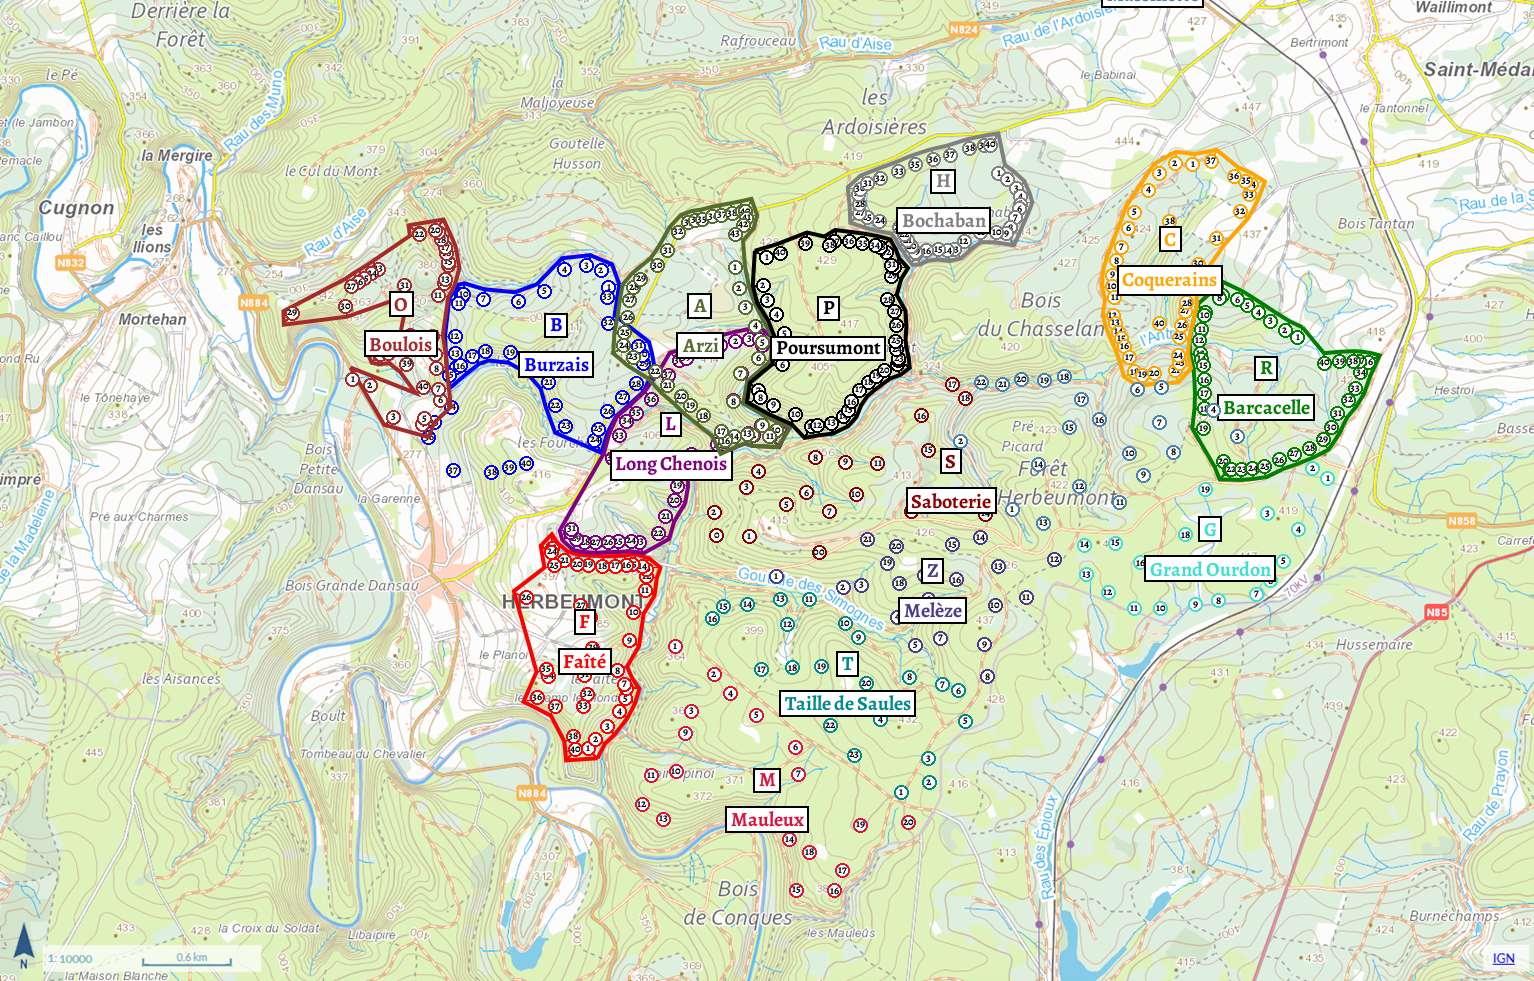
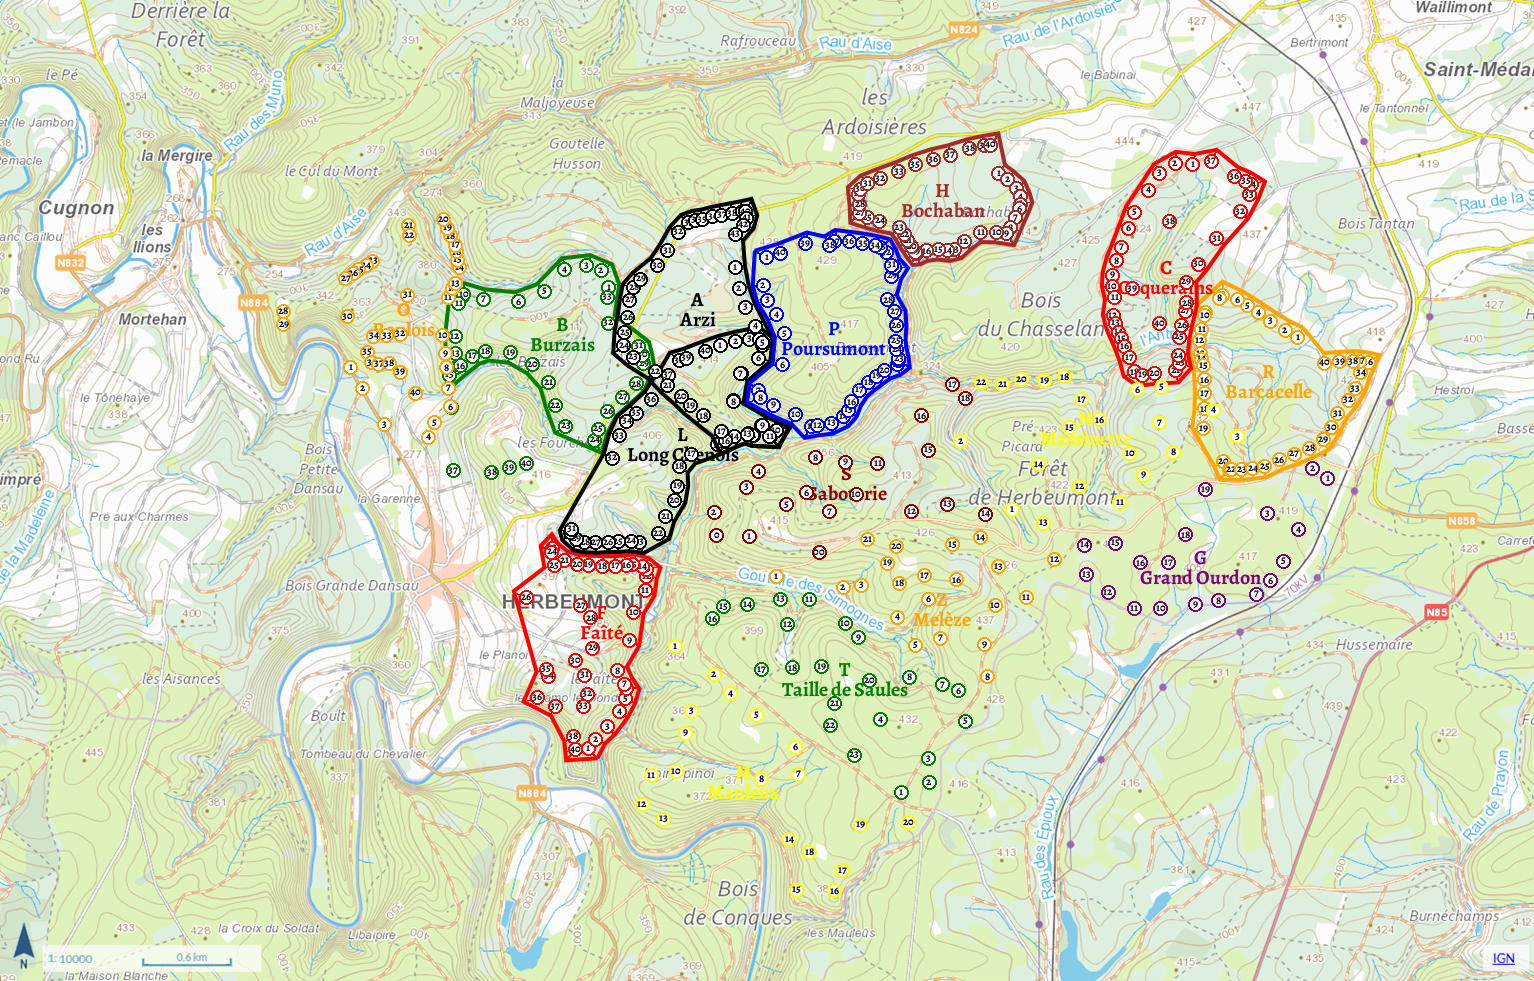
removed battue name box, added offest and changed centroid

diff --git a/src/map.py b/src/map.py
@@ -6,11 +6,11 @@ from battue import Battue
 from generic_point import load_generic_points
 from util import LambertPoint, get_lines_from_vertices, Line, point_within_bounds, flatten_tuple_array, draw_text_in_a_box
 import numpy as np
-from shapely import centroid, Polygon
 
 poste_distance_from_line = 10
 poste_font_size = 11
 circle_radius_multiplier = 0.7  # radius = poste_font_size * circle_radius_multiplier
+battue_name_label_spacing = 10  # vertical distance in pixels between the name and label
 
 class ImageCoordinate:
     def __init__(self, x, y):
@@ -28,15 +28,14 @@ class Map:
 
     def draw_battue_name(self, battue: Battue, paths):
         draw = ImageDraw.Draw(self.image)  # created object for image
-        anchor_point = centroid(Polygon(self.get_line_vertices(battue)))
-        anchor_point = np.array([anchor_point.x, anchor_point.y])
+        vertices = self.get_line_vertices(battue)
+        anchor_point = np.mean(vertices, axis=0) + battue.name_offset
         fnt = ImageFont.truetype(paths["font"], 20)
-        y_offset = 20
         padding = 5
 
-        draw_text_in_a_box(draw, battue.name, battue.colour, anchor_point, fnt, y_offset, padding)
+        draw_text_in_a_box(draw, battue.name, battue.colour, anchor_point, fnt, battue_name_label_spacing, padding)
 
-        draw_text_in_a_box(draw, battue.label, battue.colour, anchor_point, fnt, -y_offset, padding)
+        draw_text_in_a_box(draw, battue.label, battue.colour, anchor_point, fnt, -battue_name_label_spacing, padding)
 
     def draw_postes(self, battue: Battue, paths):
         draw = ImageDraw.Draw(self.image)  # created object for image
@@ -198,13 +197,13 @@ def generate_map(paths, draw_offsets=False):
         for battue_json in json_content:
             battue = Battue(battue_json, paths)
             battues.append(battue)
+            map.draw_battue_name(battue, paths)
             if not battue.affut:
                 map.draw_line(battue)
             if battue.circled_postes:
                 map.draw_circled_postes(battue, paths)
             else:
                 map.draw_postes(battue, paths)
-            map.draw_battue_name(battue, paths)
             if draw_offsets:
                 map.draw_line_offsets(battue)
             print(f"{battue.name} postes len: {len(battue.postes)}")

diff --git a/src/battue.py b/src/battue.py
@@ -39,6 +39,9 @@ class Battue:
         self.colour_secondary = battue_json["colour_secondary"]
         self.affut: bool = battue_json.get("affut", False)
         self.circled_postes: bool = battue_json.get("circled_postes", False)
+        name_offset_x = battue_json.get("name_offset_x", 0)
+        name_offset_y = battue_json.get("name_offset_y", 0)
+        self.name_offset: np.ndarray = np.array([name_offset_x, name_offset_y])
         postes_csv_file = open(paths["postes_csv"], newline='', encoding='utf-8')
         postes_csv_reader = csv.DictReader(postes_csv_file, delimiter=';')
         for row in postes_csv_reader:

diff --git a/src/util.py b/src/util.py
@@ -86,9 +86,6 @@ def flatten_tuple_array(tuple_array):
 
 def draw_text_in_a_box(draw, text, colour, anchor_point, fnt, y_offset, padding):
     anchor_point = anchor_point + np.array([0, y_offset])
-    left, top, right, bottom = draw.textbbox((anchor_point[0], anchor_point[1]), text, font=fnt, anchor="mm", align="center")
-    text_box = [(left - padding, top - padding), (right + padding, bottom + padding)]
-    draw.rectangle(text_box, fill="white", outline="black", width=2)
     draw.text((anchor_point[0], anchor_point[1]), text, font=fnt, fill=colour, anchor="mm", align="center")
 
 
